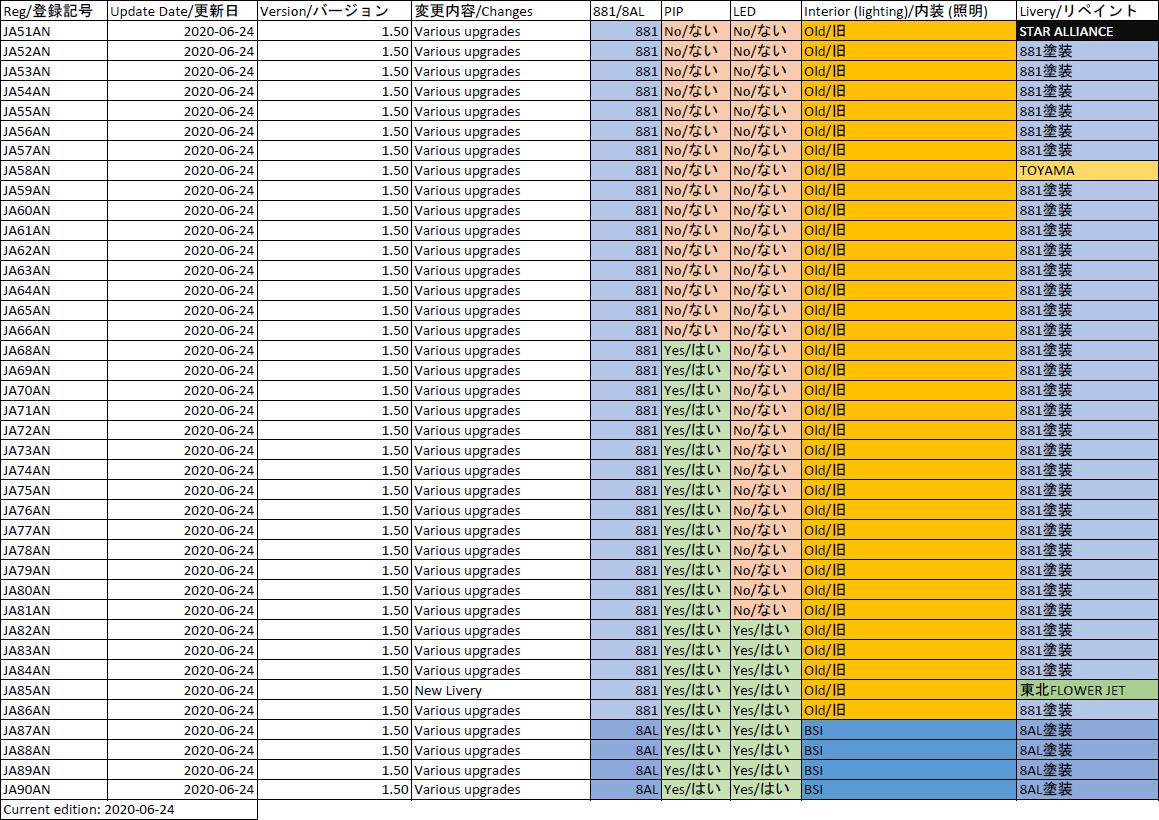
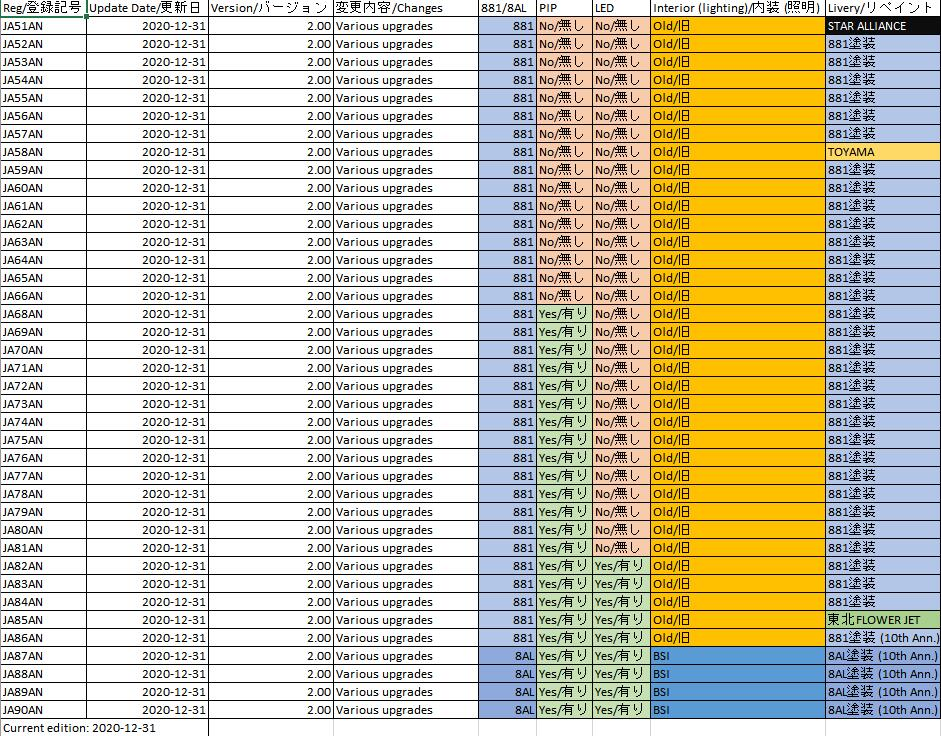
Update for 738 livery pack

diff --git a/repscene/jp/repaints/738.html b/repscene/jp/repaints/738.html
@@ -81,7 +81,7 @@
 						<li><a href="javascript:history.back()" class="button">&#60;&nbsp;&nbsp;&nbsp; Back</a></li>
 					</ul>
 					<h2><center>PMDG NGXu Boeing 737-881(8AL)</center></h2>
-					<h5><center>バージョン　1.5</center></h5>
+					<h5><center>バージョン　2.00</center></h5>
 					<h4><center>By SINO9309 (主デザイナー), ANA7875 (プロデューサー)</center></h4>
 					<p><b>使用要件:</b>
 					<br>このパックを取得は無料です。
@@ -108,7 +108,7 @@
 					<br>-	LED/旧式ランディングライト設定
 					<br>-	BSI/旧式キャビンライト設定
 					<br>-	デカールとステッカー
-					<br>-	JA51AN(Star Alliance塗装), JA58AN(「ご当地プレーン：富山市」塗装), JA85AN(東北FLOWER JET)
+					<br>-	JA51AN(Star Alliance塗装), JA58AN(「ご当地プレーン：富山市」塗装), JA85AN(東北FLOWER JET)とANA Wings 10th Anniversary 塗装
 					<br>-	881スタイル塗装と8ALスタイル塗装</p>
 					<p><b>機材情報: (詳細はこちらをチェック: <a href="../../../fleet/jp/index.html">機材LIST</a>)</b>
 					<div class='image-wrapper'><img src="../../en/repaints/738/info.jpg" frameborder='0'></div>
@@ -127,7 +127,7 @@
 				<div class="container">
 					<ul class="copyright">
 						<b><j>このウェブサイトは実際にはANAとは関係ありません.</j> Flight Simulation Only.</b>
-						<li>© 2020 ANA7875</li>
+						<li>© 2021 ANA7875</li>
 						<li>Design: <a href="http://templated.co">TEMPLATED</a></li>
 					</ul>
 				</div>

diff --git a/repscene/en/repaints/738.html b/repscene/en/repaints/738.html
@@ -81,7 +81,7 @@
 						<li><a href="javascript:history.back()" class="button">&#60;&nbsp;&nbsp;&nbsp; Back</a></li>
 					</ul>
 					<h2><center>PMDG NGXu Boeing 737-881(8AL)</center></h2>
-					<h5><center>Version 1.5</center></h5>
+					<h5><center>Version 2.00</center></h5>
 					<h4><center>By SINO9309 (Main Designer), ANA7875 (Producer)</center></h4>
 					<p><b>Authorization:</b>
 					<br>There will never have a cost of acquisition of this fleet pack. This is also required by materials used in the creation of this pack. 
@@ -101,7 +101,7 @@
 					<br>-	LED/Conventional landing light configuration 
 					<br>-	BSI/Conventional cabin light 
 					<br>-	Realistic decals and stickers over aircraft fuselage 
-					<br>-	JA51AN(Star Alliance Livery), JA58AN(Toyama Livery), JA85AN(Tohuku Flower Jet)
+					<br>-	JA51AN(Star Alliance Livery), JA58AN(Toyama Livery), JA85AN(Tohuku Flower Jet), and ANA Wings 10th Anniversary liveries
 					<br>-	881 style livery and 8AL style livery </p>
 					<p><b>Fleet Information: (Please check <a href="../../../fleet/en/index.html">Our fleet list</a> for more detailed information!) </b>
 					<div class='image-wrapper'><img src="738/info.jpg" frameborder='0'></div>
@@ -120,7 +120,7 @@
 				<div class="container">
 					<ul class="copyright">
 						<b>Not affiliated with ANA in real life. Flight Simulation Only.</b>
-						<li>© 2020 ANA7875</li>
+						<li>© 2021 ANA7875</li>
 						<li>Design: <a href="http://templated.co">TEMPLATED</a></li>
 					</ul>
 				</div>
